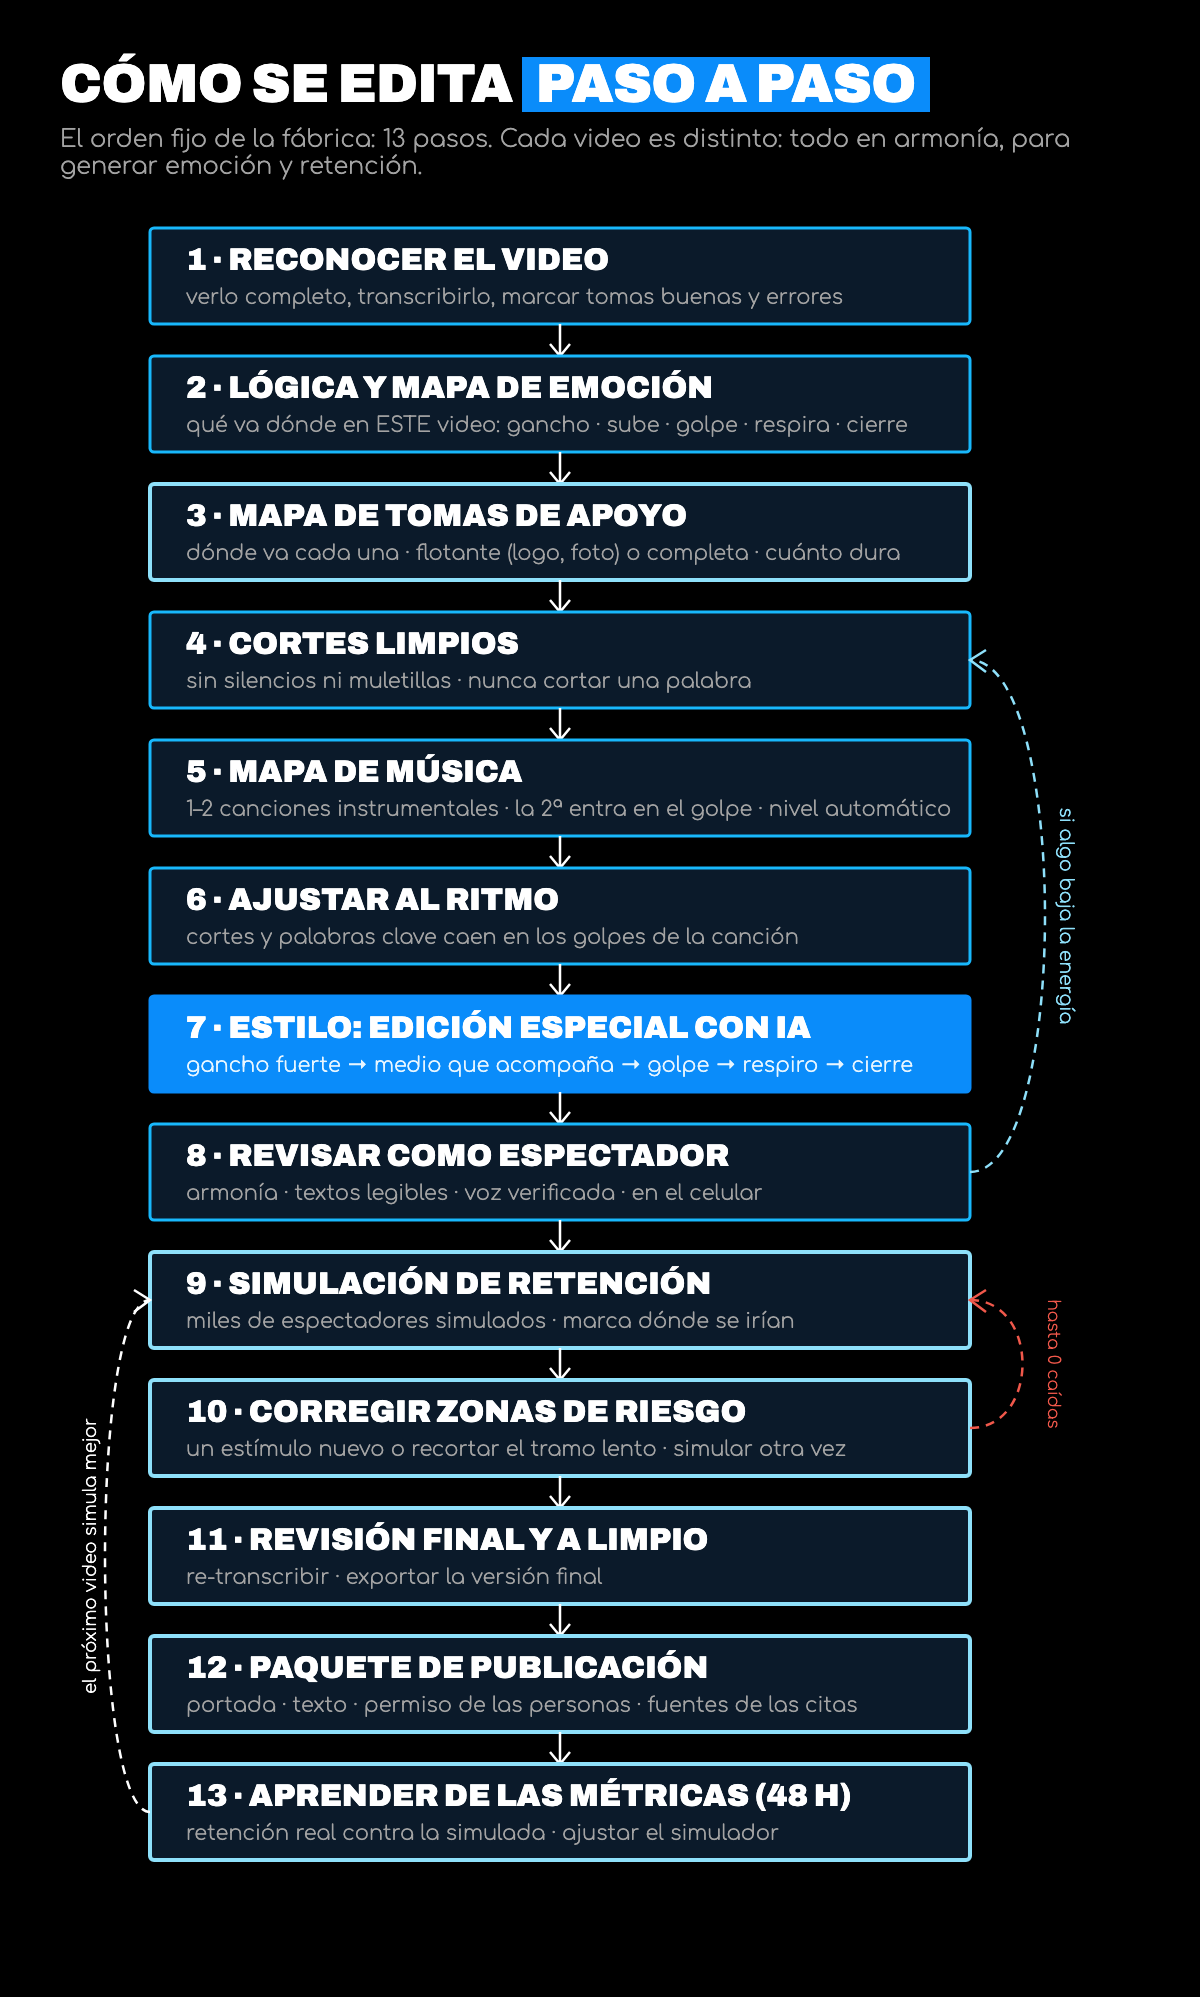
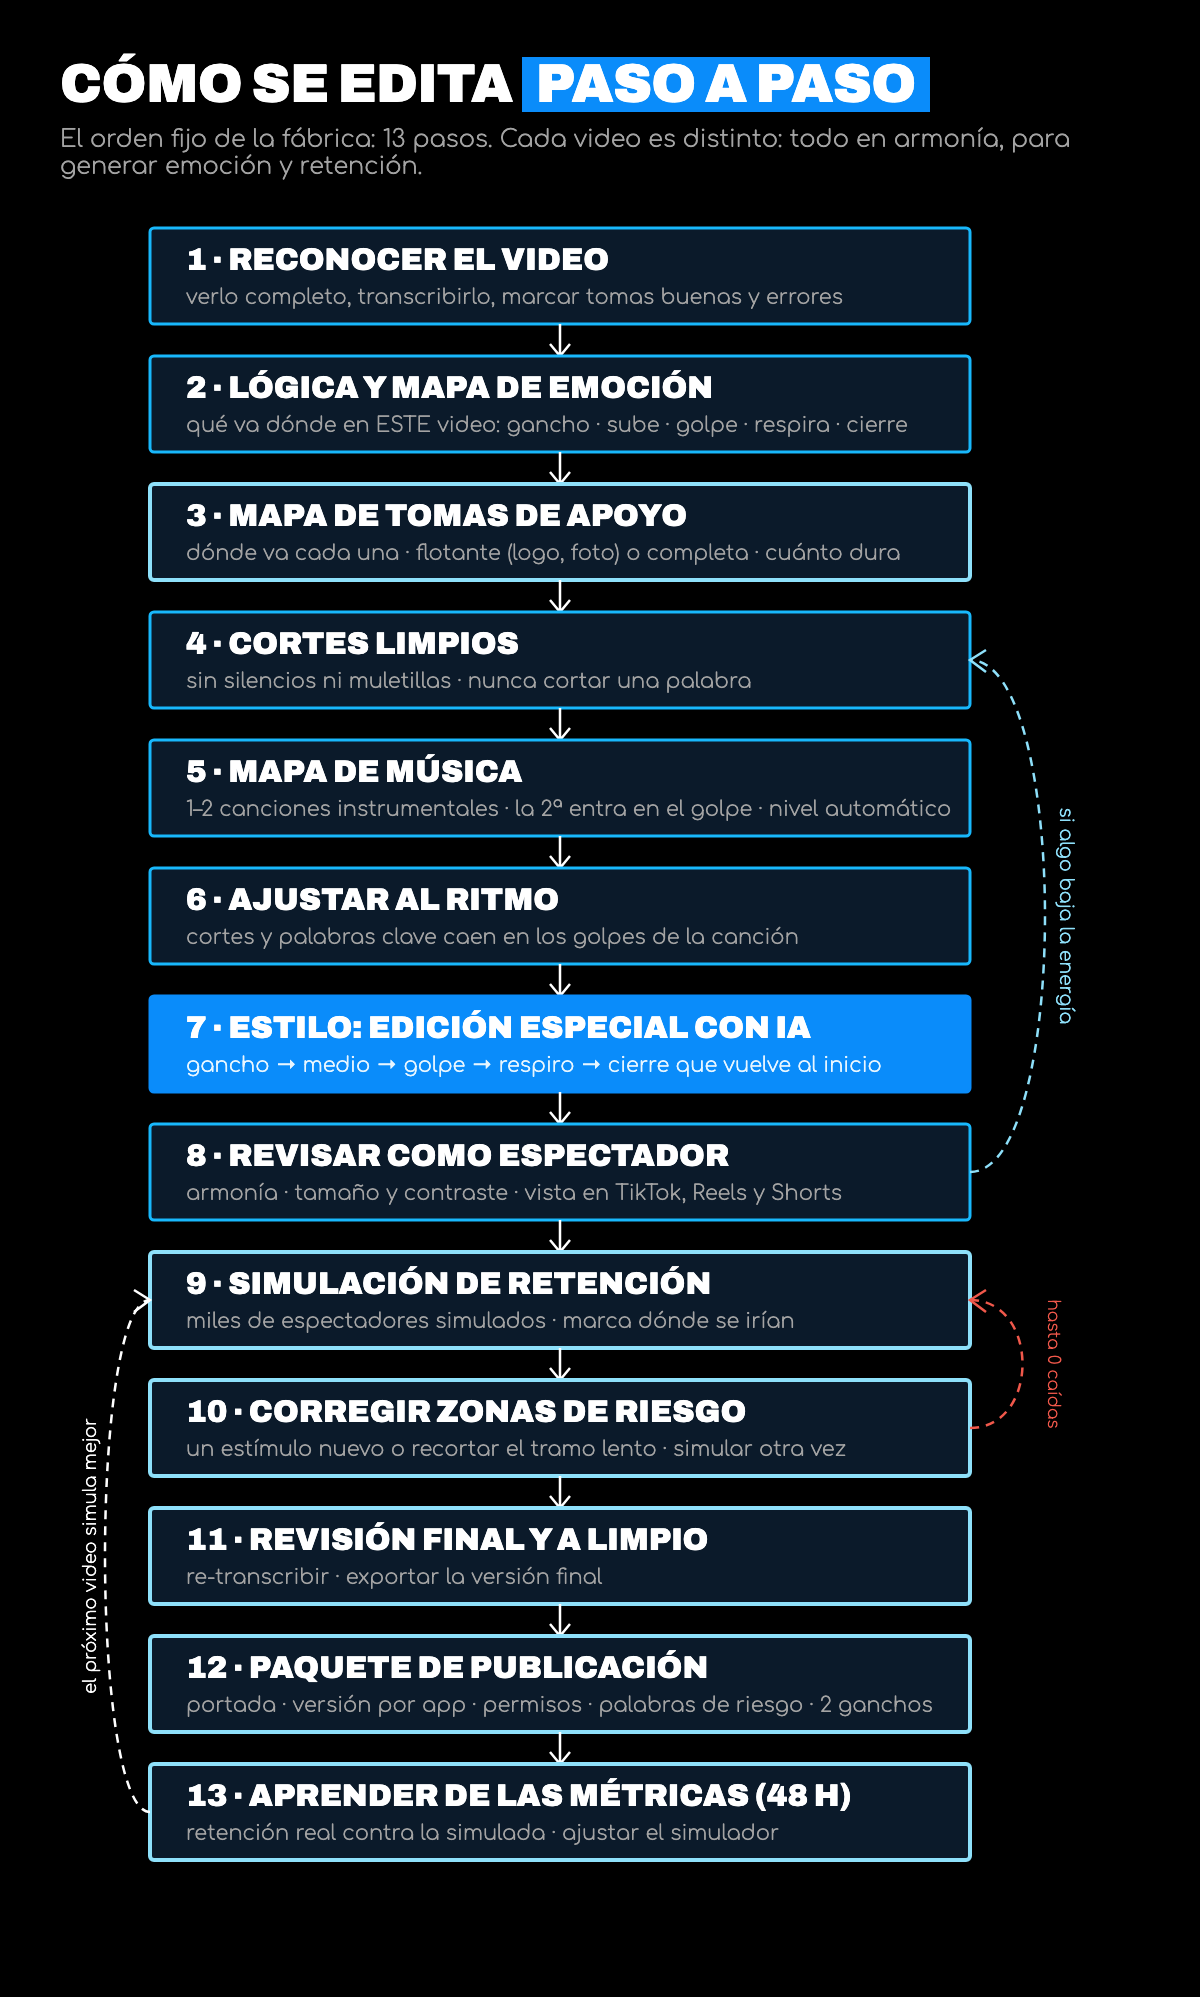
Fábrica: reglas nuevas del roadmap (bucle, vista en apps, tamaño y contraste, palabras de riesgo, dos ganchos, portada y versión por plataforma)

diff --git a/lib/fabrica-reels.ts b/lib/fabrica-reels.ts
@@ -224,6 +224,7 @@ export const FABRICA_BASE: ContenidoFabrica = {
           puntos: [
             "1 Reconocer el video · 2 Lógica y mapa de emoción · 3 Mapa de tomas de apoyo · 4 Cortes limpios · 5 Mapa de música · 6 Ajustar al ritmo · 7 Estilo · 8 Revisar como espectador · 9 Simulación de retención · 10 Corregir zonas de riesgo · 11 Revisión final y a limpio · 12 Paquete de publicación · 13 Aprender de las métricas.",
             "Paso 5, mapa de música: una o dos canciones instrumentales (sin la voz del cantante, separada con Demucs); la segunda entra en el golpe principal. La música se mide y queda sola 12 dB por debajo de la voz.",
+            "Reglas que faltaban (Kev, 2026-11-05): el final empalma con el inicio (bucle) y suena algo desde el cuadro 0 (paso 7); tamaño mínimo y contraste de cada texto, y vista simulada dentro de TikTok, Reels y Shorts con el parlante del celular (paso 8); palabras que bajan el alcance, dos ganchos probados con el reel de prueba de Instagram, portada generada para la grilla del perfil y una versión por plataforma: cierre y texto distintos para TikTok, Instagram y YouTube (paso 12).",
             "Cada video es distinto: en el paso 2 se decide qué va dónde en ESE video (gancho, subida, golpe, respiro, cierre) para que todo esté en armonía y genere emoción y retención.",
             "Paso 8, automático: ningún texto detrás de la persona puede quedar tapado más de un 30 % (si pasa, va adelante) y la voz se verifica sola, sin música, contra lo que tiene que decir.",
             "Paso 12: portada, texto, permiso de las personas que salen y la fuente de cada cita. Paso 13: a las 48 h se compara la retención real con la simulada y se ajusta el simulador para el próximo video.",
@@ -341,6 +342,7 @@ export const FABRICA_BASE: ContenidoFabrica = {
           puntos: [
             "1 Reconocer el video · 2 Lógica y mapa de emoción · 3 Mapa de tomas de apoyo · 4 Cortes limpios · 5 Mapa de música · 6 Ajustar al ritmo · 7 Estilo · 8 Revisar como espectador · 9 Simulación de retención · 10 Corregir zonas de riesgo · 11 Revisión final y a limpio · 12 Paquete de publicación · 13 Aprender de las métricas.",
             "Paso 5, mapa de música: una o dos canciones instrumentales (sin la voz del cantante, separada con Demucs); la segunda entra en el golpe principal. La música se mide y queda sola 12 dB por debajo de la voz.",
+            "Reglas que faltaban (Kev, 2026-11-05): el final empalma con el inicio (bucle) y suena algo desde el cuadro 0 (paso 7); tamaño mínimo y contraste de cada texto, y vista simulada dentro de TikTok, Reels y Shorts con el parlante del celular (paso 8); palabras que bajan el alcance, dos ganchos probados con el reel de prueba de Instagram, portada generada para la grilla del perfil y una versión por plataforma: cierre y texto distintos para TikTok, Instagram y YouTube (paso 12).",
             "Cada video es distinto: en el paso 2 se decide qué va dónde en ESE video (gancho, subida, golpe, respiro, cierre) para que todo esté en armonía y genere emoción y retención.",
             "Paso 8, automático: ningún texto detrás de la persona puede quedar tapado más de un 30 % (si pasa, va adelante) y la voz se verifica sola, sin música, contra lo que tiene que decir.",
             "Paso 12: portada, texto, permiso de las personas que salen y la fuente de cada cita. Paso 13: a las 48 h se compara la retención real con la simulada y se ajusta el simulador para el próximo video.",
